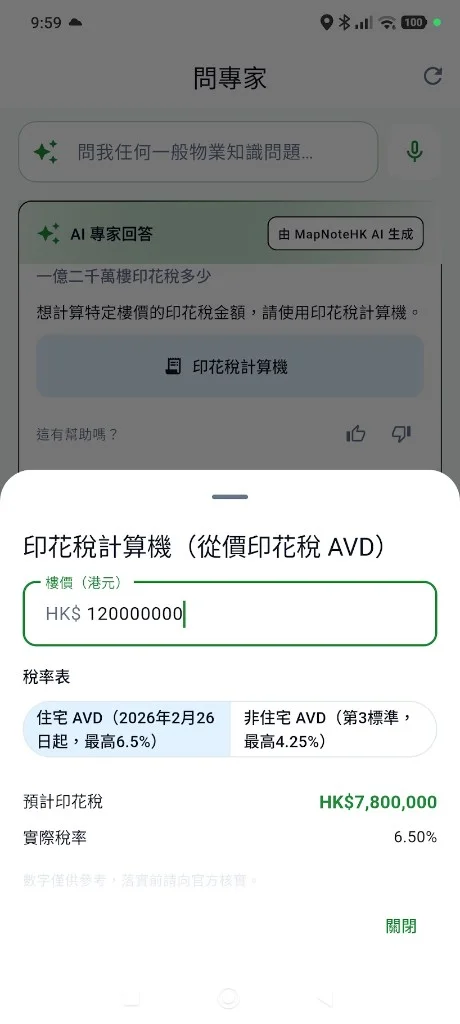
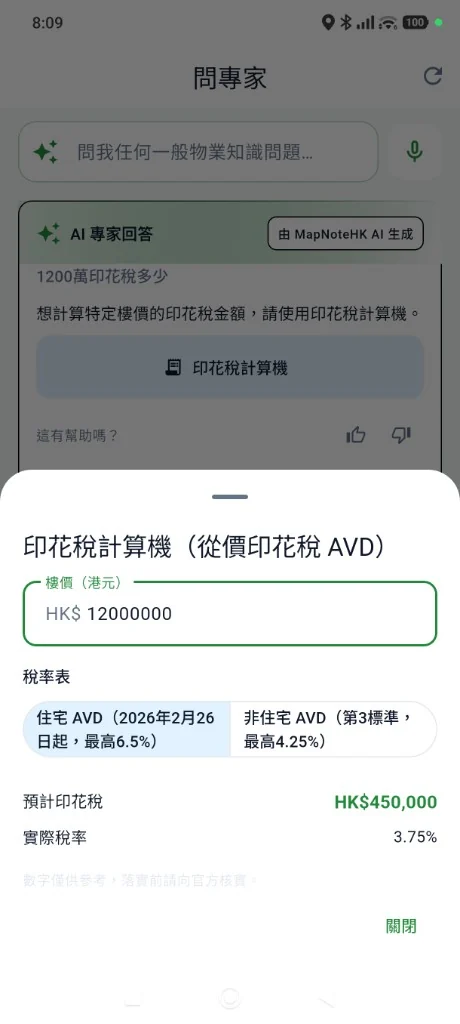
Replace feature-4 Ask Expert screenshots with stamp duty and GFA answers.
The showcase still showed older comparables copy; swap PNG/WebP srcset for the current calculator sheet and sourced knowledge-base reply.

diff --git a/index.html b/index.html
@@ -273,12 +273,12 @@
               <!-- AI expert: comparables answer with sources + pricing advice pair -->
               <div class="showcase-duo">
                 <picture class="phone-frame">
-                  <source type="image/webp" srcset="./assets/feature-expert-comparables-280.webp 280w, ./assets/feature-expert-comparables-460.webp 460w" sizes="(max-width: 860px) 42vw, 240px" />
-                  <img src="./assets/feature-expert-comparables-460.png" srcset="./assets/feature-expert-comparables-280.png 280w, ./assets/feature-expert-comparables-460.png 460w" sizes="(max-width: 860px) 42vw, 240px" width="460" height="1024" data-i18n-alt="home.f4Alt" alt="" loading="lazy" decoding="async" />
+                  <source type="image/webp" srcset="./assets/feature-expert-comparables-280.webp?v=20260916a 280w, ./assets/feature-expert-comparables-460.webp?v=20260916a 460w" sizes="(max-width: 860px) 42vw, 240px" />
+                  <img src="./assets/feature-expert-comparables-460.png?v=20260916a" srcset="./assets/feature-expert-comparables-280.png?v=20260916a 280w, ./assets/feature-expert-comparables-460.png?v=20260916a 460w" sizes="(max-width: 860px) 42vw, 240px" width="460" height="1024" data-i18n-alt="home.f4Alt" alt="" loading="lazy" decoding="async" />
                 </picture>
                 <picture class="phone-frame">
-                  <source type="image/webp" srcset="./assets/feature-expert-negotiation-280.webp 280w, ./assets/feature-expert-negotiation-460.webp 460w" sizes="(max-width: 860px) 42vw, 240px" />
-                  <img src="./assets/feature-expert-negotiation-460.png" srcset="./assets/feature-expert-negotiation-280.png 280w, ./assets/feature-expert-negotiation-460.png 460w" sizes="(max-width: 860px) 42vw, 240px" width="460" height="1024" data-i18n-alt="home.f4bAlt" alt="" loading="lazy" decoding="async" />
+                  <source type="image/webp" srcset="./assets/feature-expert-negotiation-280.webp?v=20260916a 280w, ./assets/feature-expert-negotiation-460.webp?v=20260916a 460w" sizes="(max-width: 860px) 42vw, 240px" />
+                  <img src="./assets/feature-expert-negotiation-460.png?v=20260916a" srcset="./assets/feature-expert-negotiation-280.png?v=20260916a 280w, ./assets/feature-expert-negotiation-460.png?v=20260916a 460w" sizes="(max-width: 860px) 42vw, 240px" width="460" height="1024" data-i18n-alt="home.f4bAlt" alt="" loading="lazy" decoding="async" />
                 </picture>
               </div>
             </div>
